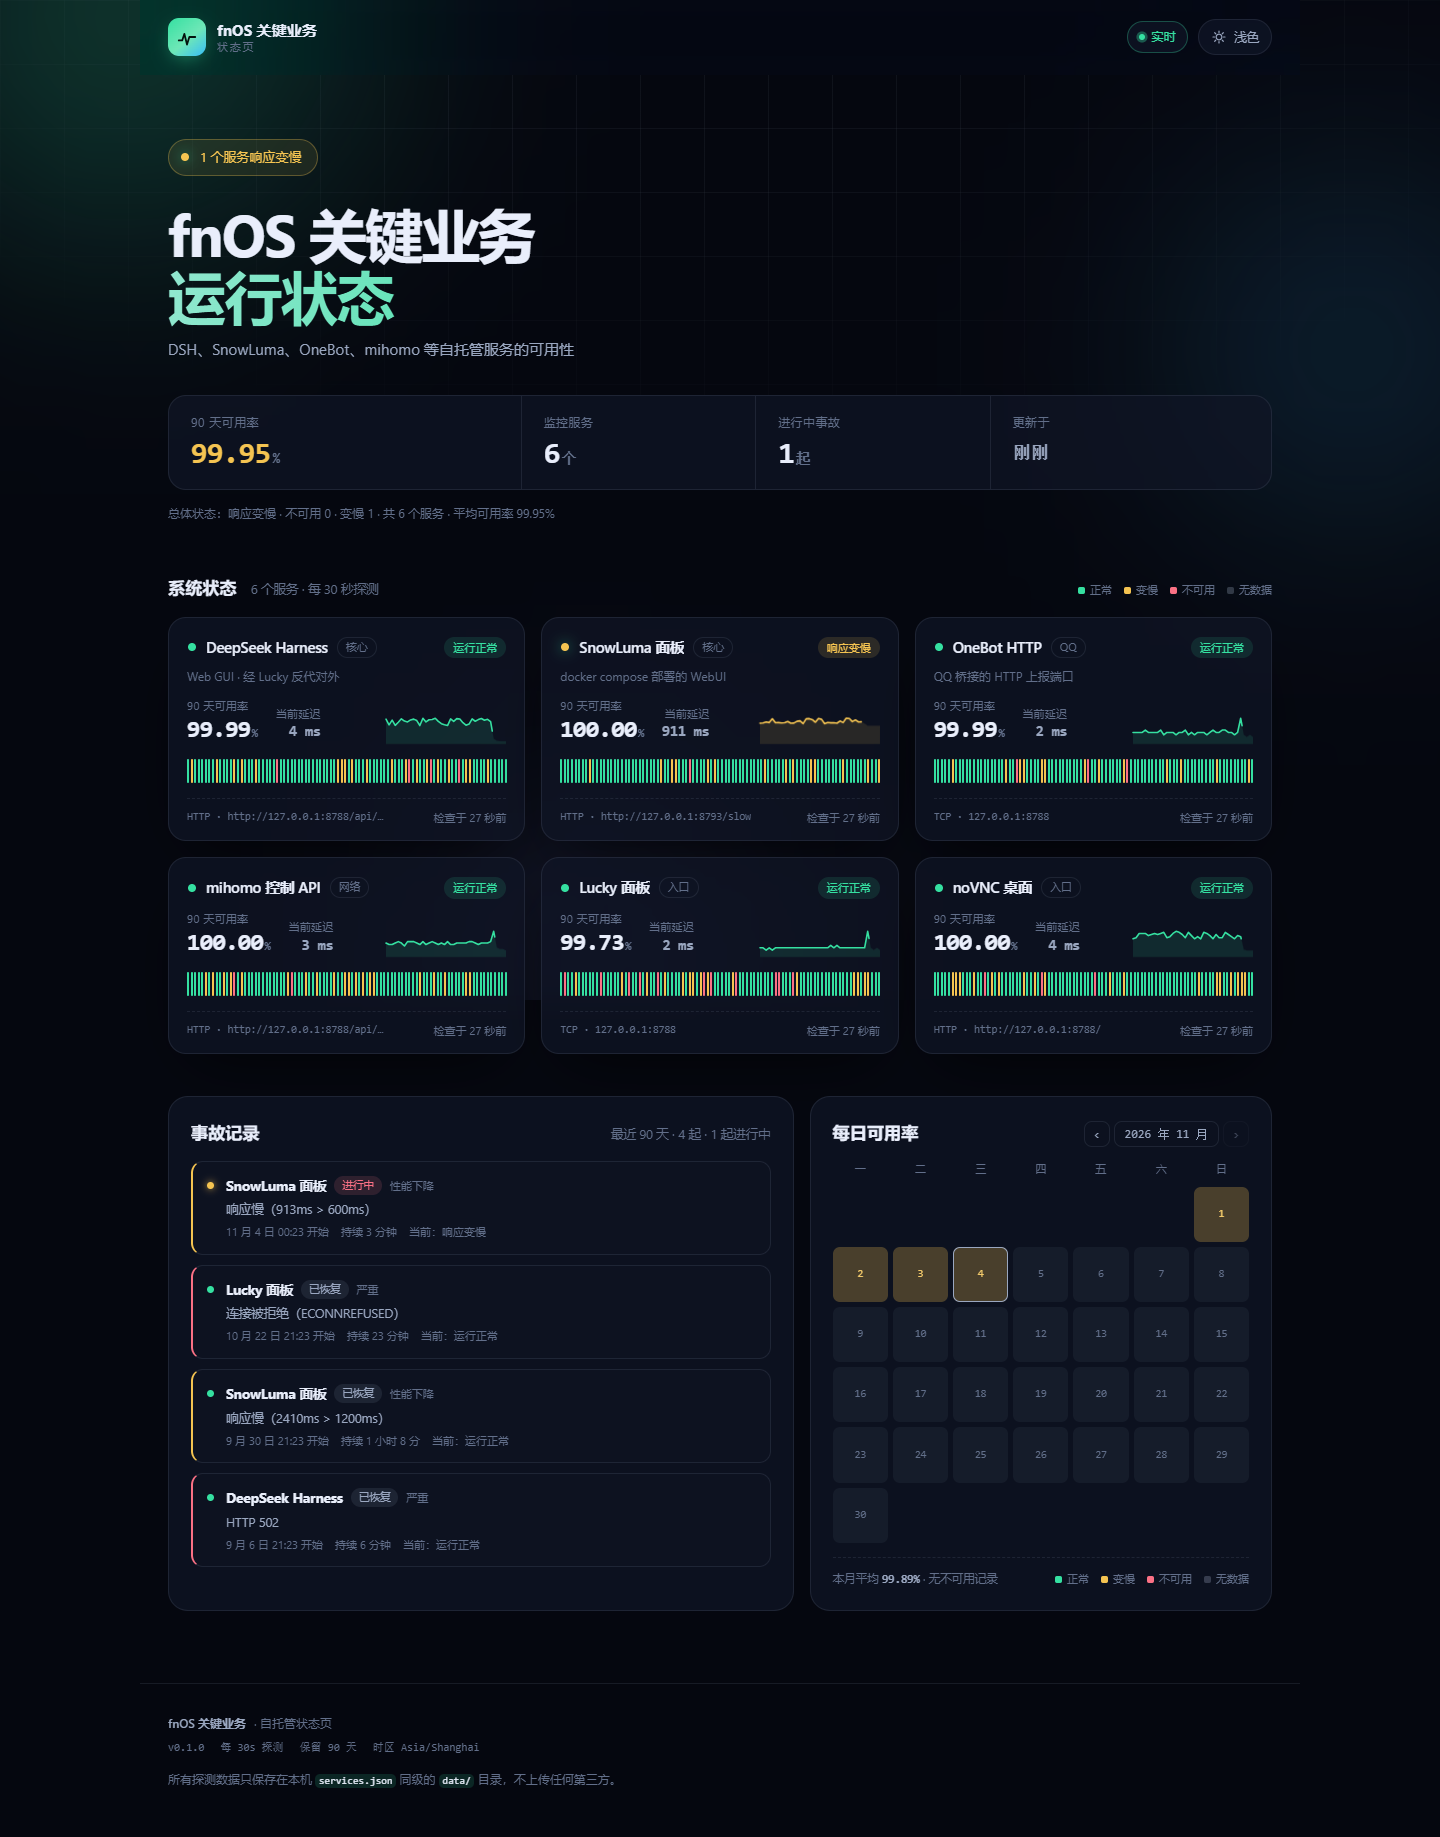
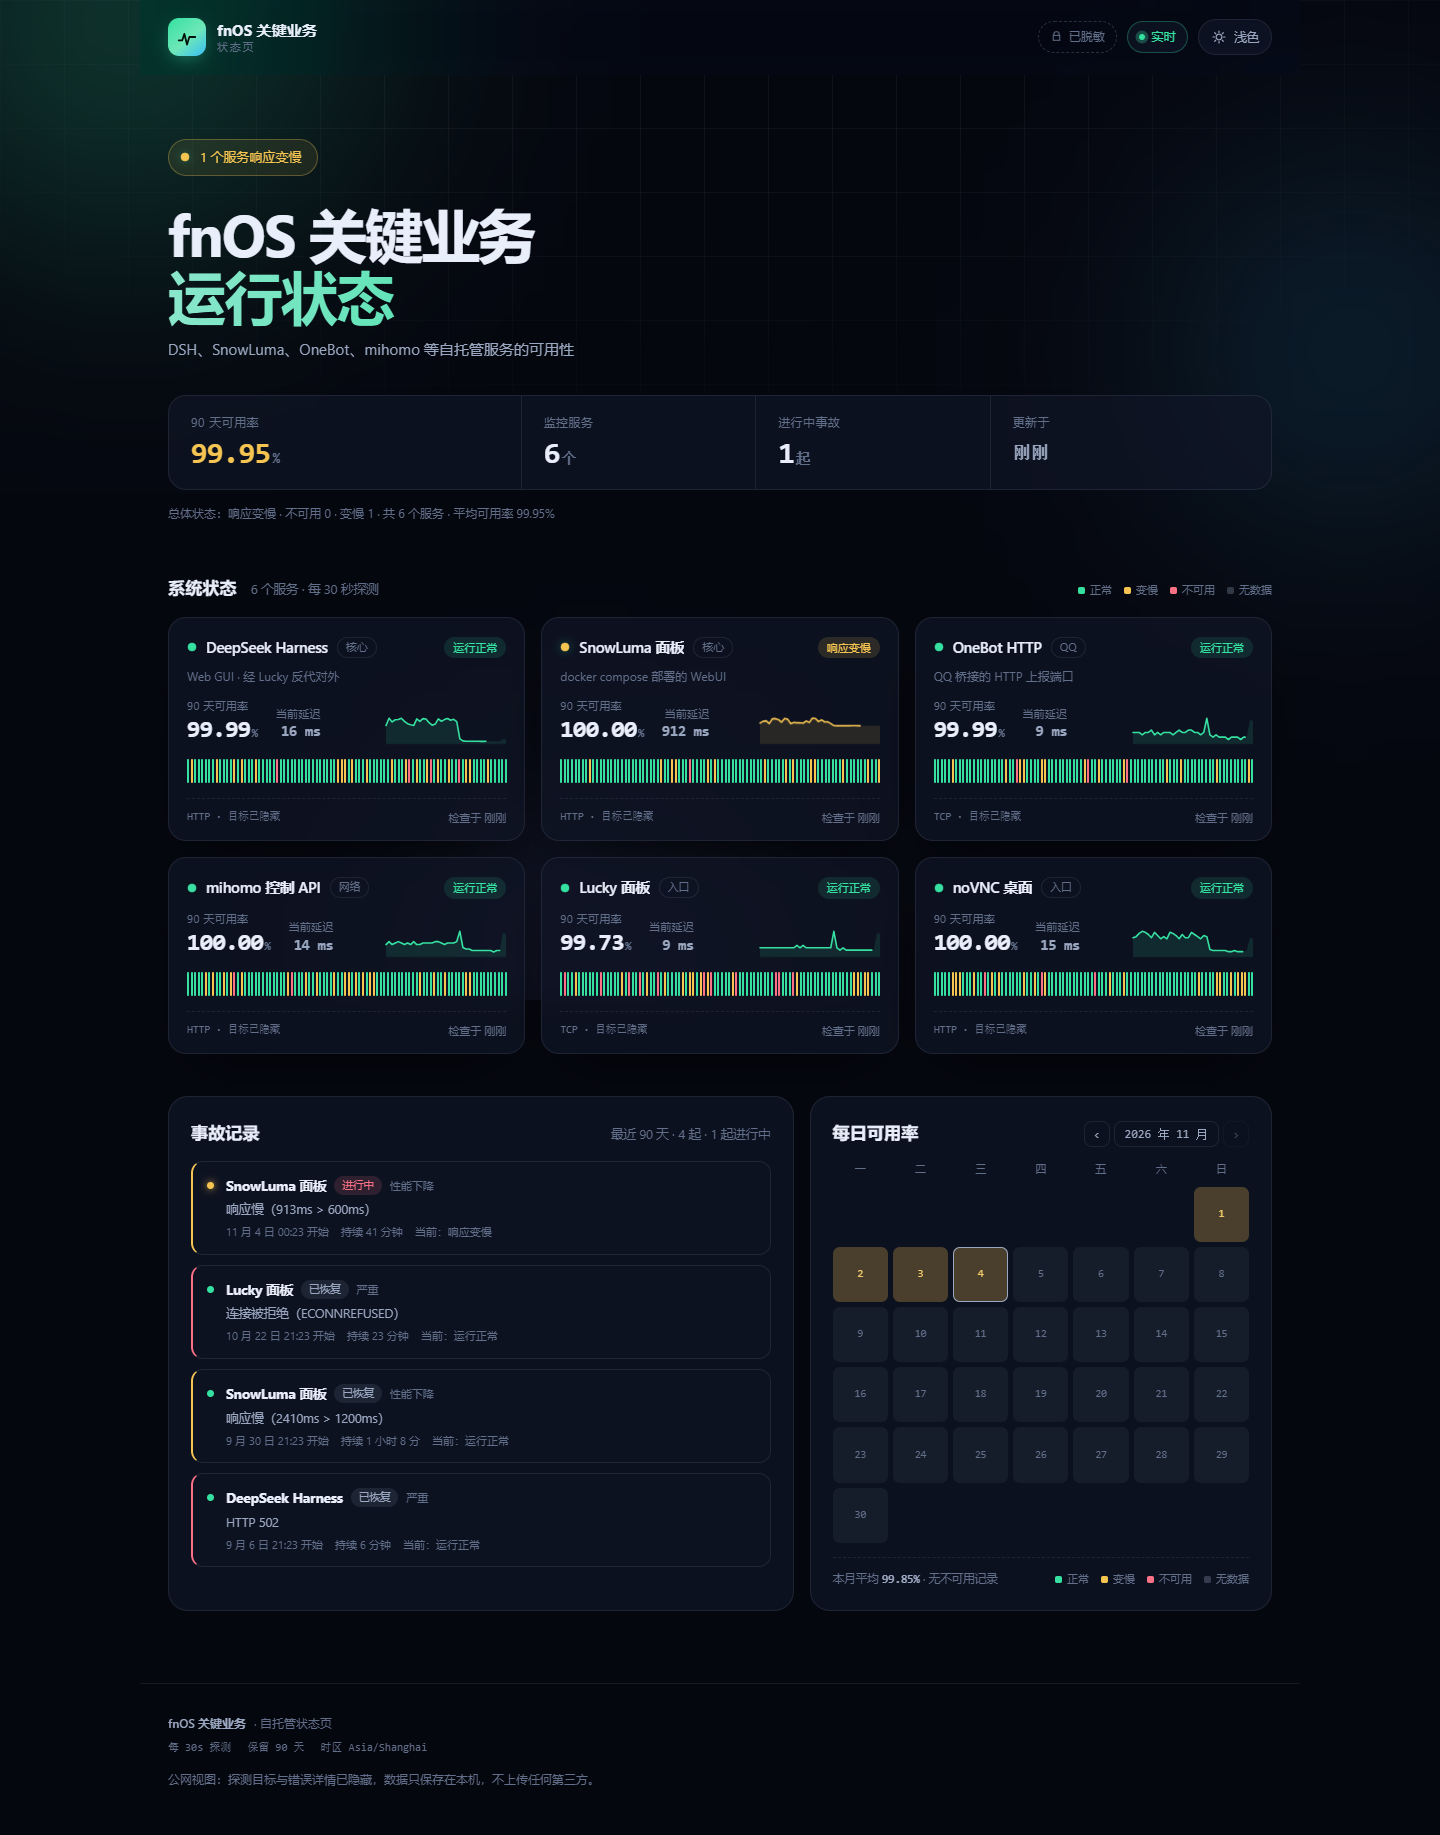
docs: 截图改为公网脱敏视图 (FM-008)
- 换用带「已脱敏」标记、卡片显示「目标已隐藏」的截图，与默认公网视图一致。
- README 图注说明截图是未登录视图，避免读者误以为页面会展示探测地址。

diff --git a/README.md b/README.md
@@ -14,7 +14,7 @@
 
 移动端自动单列布局：![移动端](docs/screenshots/mobile.jpg)
 
-> 截图为演示数据（`.demo/` 目录，已在 `.gitignore` 中），不代表任何真实服务的运行状况。
+> 截图为演示数据（`.demo/` 目录，已在 `.gitignore` 中），且是未登录时的公网视图——卡片底部显示「目标已隐藏」、页头有「已脱敏」标记；不代表任何真实服务的运行状况。
 
 ## 功能
 
